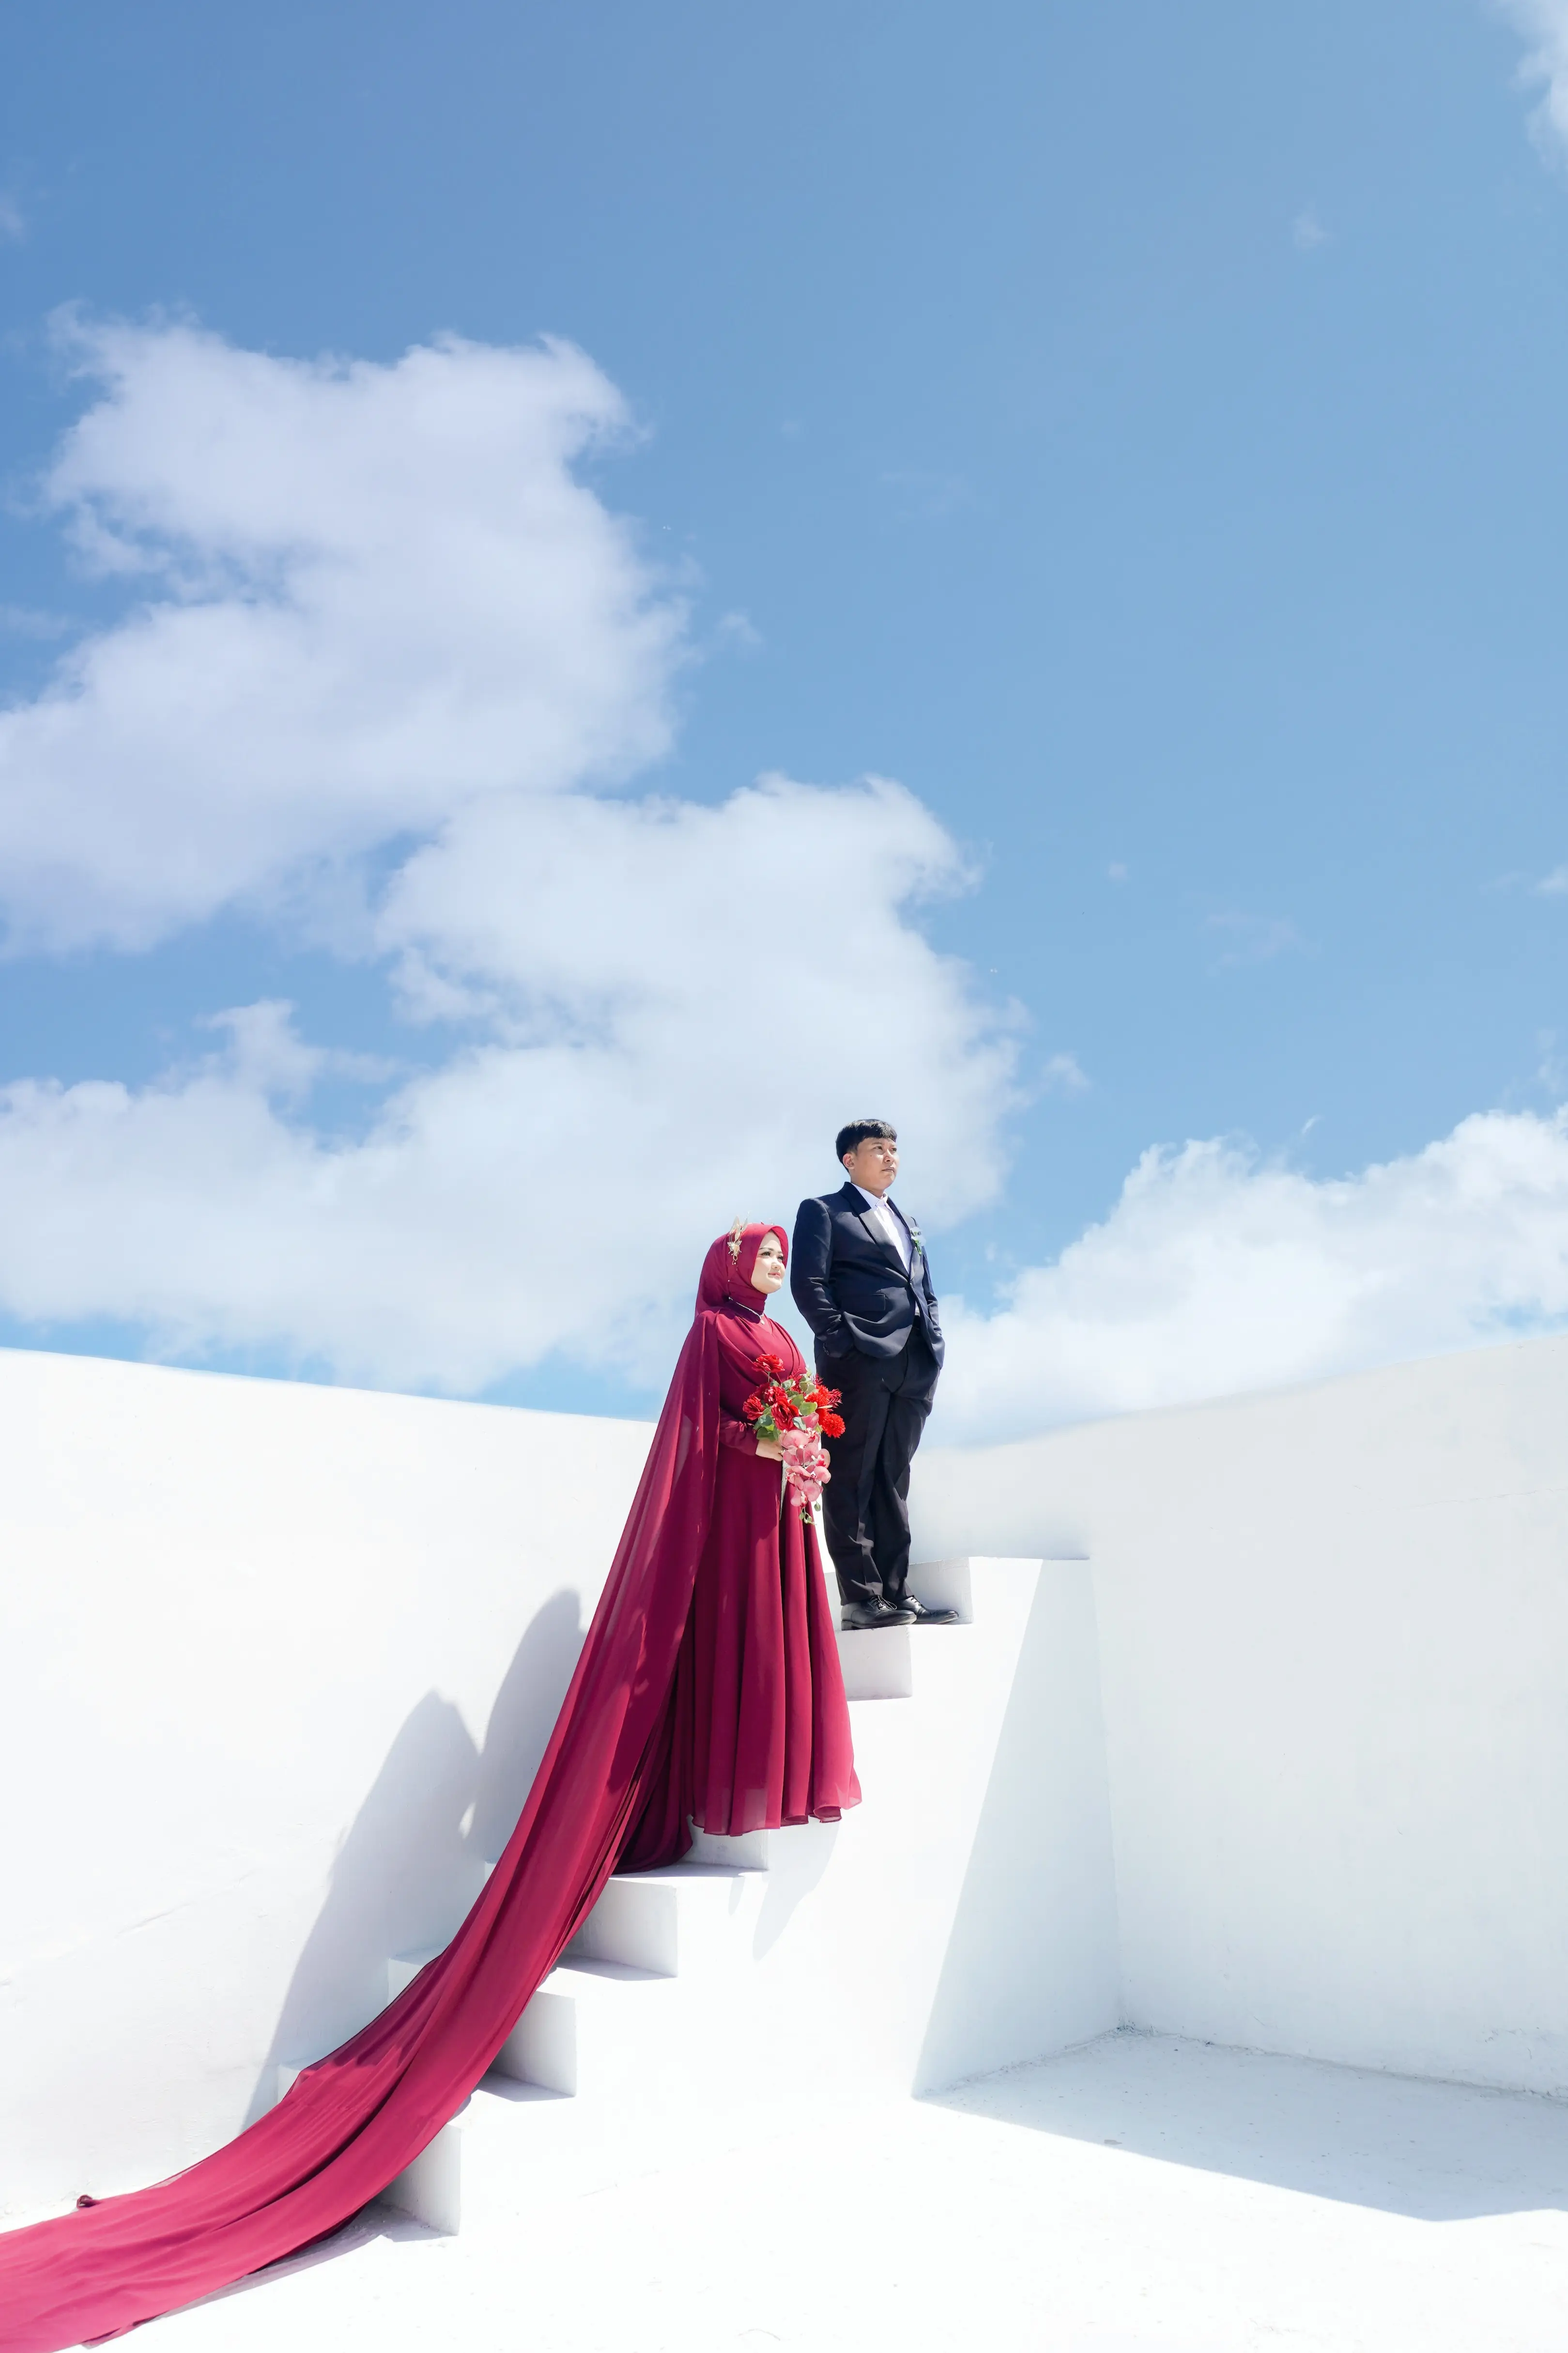
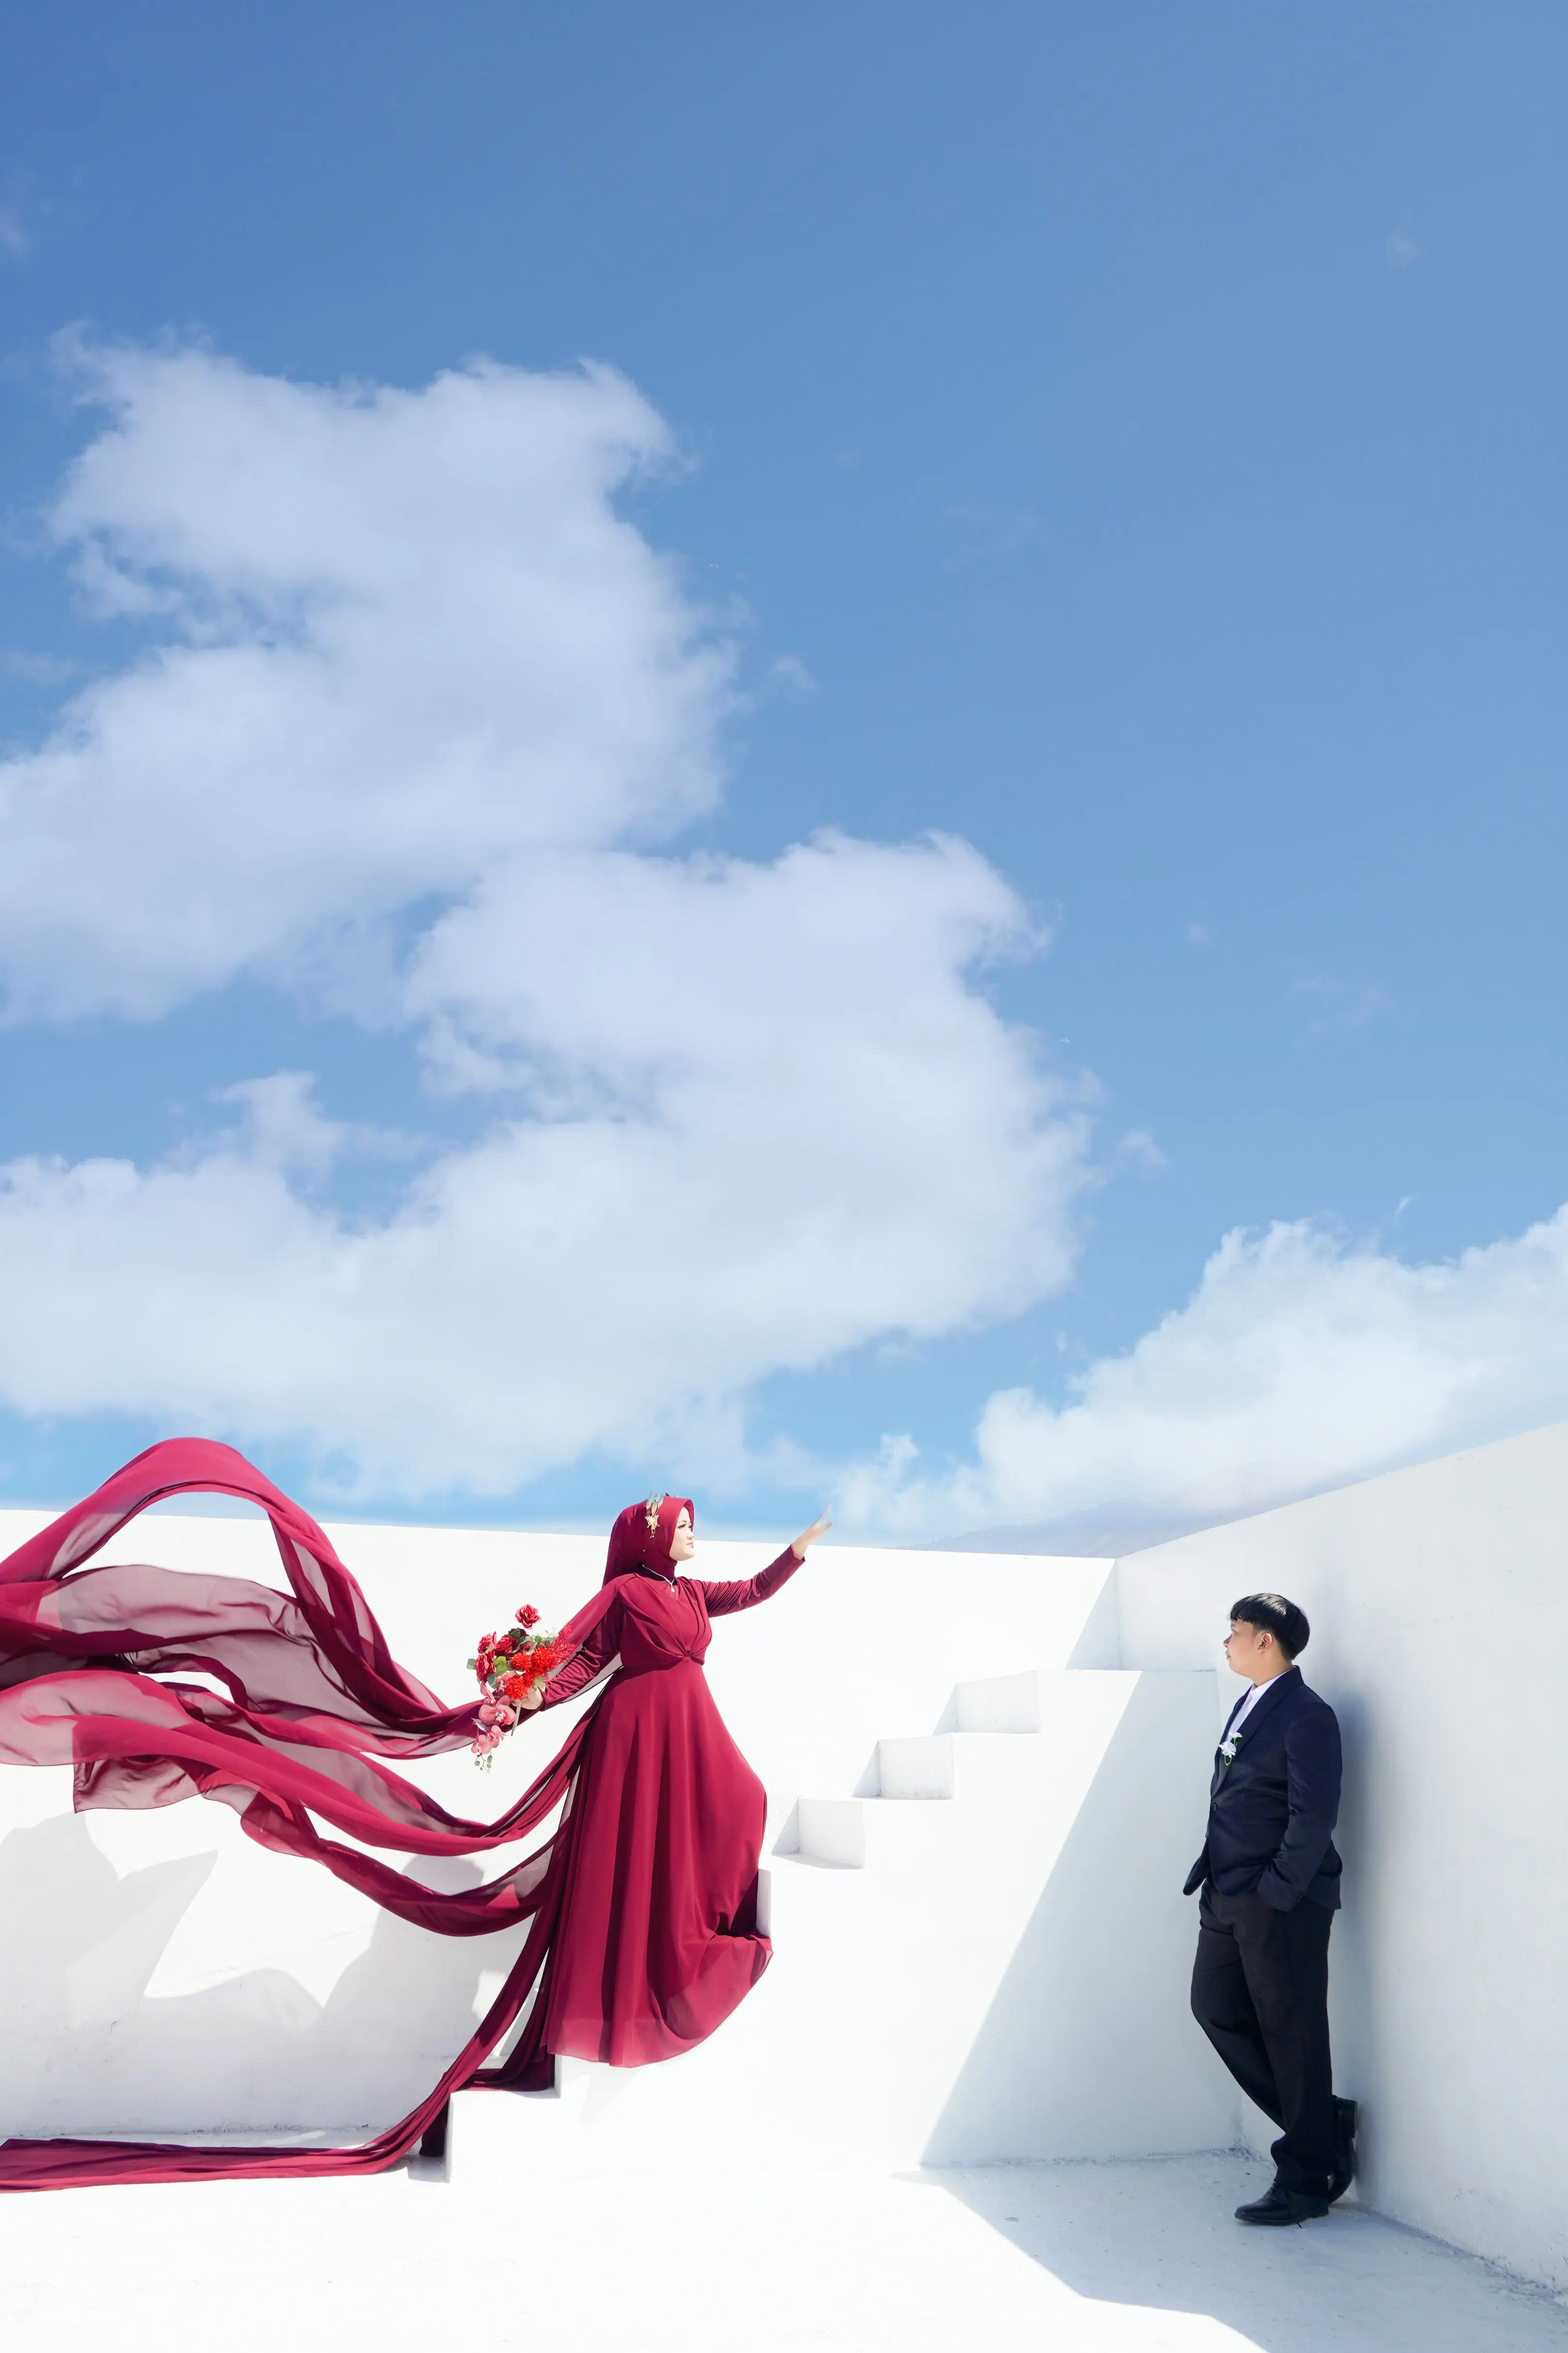
done

diff --git a/src/components/TheWedding.jsx b/src/components/TheWedding.jsx
@@ -338,7 +338,7 @@ useEffect(() => {
     <div
       className="absolute inset-0 bg-cover bg-center"
       style={{
-        backgroundImage: "url('/ep1.webp')",
+        backgroundImage: "url('/awal.jpeg')",
       }}
     />
 
@@ -452,29 +452,24 @@ useEffect(() => {
   <div className="relative z-20 flex flex-col items-start justify-end h-full px-6 md:px-20 pb-16 text-left text-white">
 
  {/* NIKAHFIX - SVG curved */}
- <div className="-mb-2 lg:-mb-2 md:ml-0 lg:-ml-8">
-  <svg viewBox="0 0 400 51" className="w-40 h-20 md:w-56 md:h-20 lg:w-64 lg:h-28">
-    <defs>
-      <path id="curve" d="M20,90 Q200,0 400,80" fill="transparent" />
-        {/* Filter untuk bayangan */}
-      <filter id="textShadow" x="-50%" y="-50%" width="200%" height="200%">
-        <feDropShadow dx="1" dy="2" stdDeviation="2" floodColor="black" floodOpacity="0.4"/>
-      </filter>
-    </defs>
-    <text
-      fontSize="140"
-      className="fill-red-600 font-black tracking-wide font-bebas"
-    >
-      <textPath href="#curve" startOffset="48%" textAnchor="middle">
-        RifNaz
-      </textPath>
-    </text>
-  </svg>
-</div>
 
-    <h1 className="text-3xl md:text-5xl font-extrabold leading-tigh lg:-ml-8">
-      Arif & Nazah: <br /> Sebelum Hari H
-    </h1>
+
+    <h1
+  className="
+    text-5xl
+    md:text-7xl
+    font-normal
+    tracking-wide
+    leading-none
+    text-white
+  "
+  style={{
+    fontFamily: "'Bodoni Moda', serif",
+  }}
+>
+  Arif & Nazah
+</h1>
+
 
     <div className="flex items-center gap-3 mt-3 lg:-ml-8">
       <span className="bg-red-600 text-white text-xs md:text-sm px-3 py-1 rounded-full font-semibold shadow">
@@ -2396,9 +2391,12 @@ useEffect(() => {
       Terima kasih telah menjadi bagian dari cerita cinta kami. <br />
       Dengan penuh rasa syukur, kami menantikan kehadiranmu di hari yang sangat berarti ini.
     </p>
-    <p className="mt-6 italic text-xs text-white/60">
+    <p className="mt-6 italic text-xs  text-white/60">
       “Dan di antara tanda-tanda kekuasaan-Nya ialah Dia menciptakan untukmu isteri-isteri dari jenismu sendiri, supaya kamu cenderung dan merasa tenteram kepadanya, dan dijadikan-Nya diantaramu rasa kasih dan sayang. Sesungguhnya pada yang demikian itu benar-benar terdapat tanda-tanda (kebesaran Allah) bagi kaum yang berfikir.” <br />
       – (Q.S. Ar-Rum: 21)
+    </p>
+     <p className="mt-3 text-sm md:text-base text-white/90 leading-relaxed ">
+      CREATED BY RIF
     </p>
   </motion.div>
 </section>
@@ -2434,14 +2432,31 @@ useEffect(() => {
                 }}
               />
             ))}
-            <motion.h1
-              className="text-8xl lg:text-8xl font-bold text-red-600 z-10 font-bebas"
-              initial={{ scale: 0.5, opacity: 0 }}
-              animate={{ scale: 1, opacity: 1 }}
-              transition={{ duration: 1.5 }}
-            >
-              NIKFLIX
-            </motion.h1>
+         <motion.h1
+  className="
+    text-4xl
+    sm:text-5xl
+    md:text-6xl
+    lg:text-7xl
+    font-bold
+    text-red-600
+    z-10
+    font-bebas
+    text-center
+    w-full
+    px-2
+    leading-none
+  "
+  initial={{ scale: 0.5, opacity: 0.4 }}
+  animate={{ scale: 1, opacity: 1 }}
+  transition={{ duration: 1.5 }}
+>
+  Arif & Nazah <br></br>
+<span className="block mt-1 text-[8px] font-serif text-white">
+  Created by rif
+</span>
+
+</motion.h1>
             <audio
               ref={audioRefIntro}
               src="/sound/netflix_sound.mp3"
